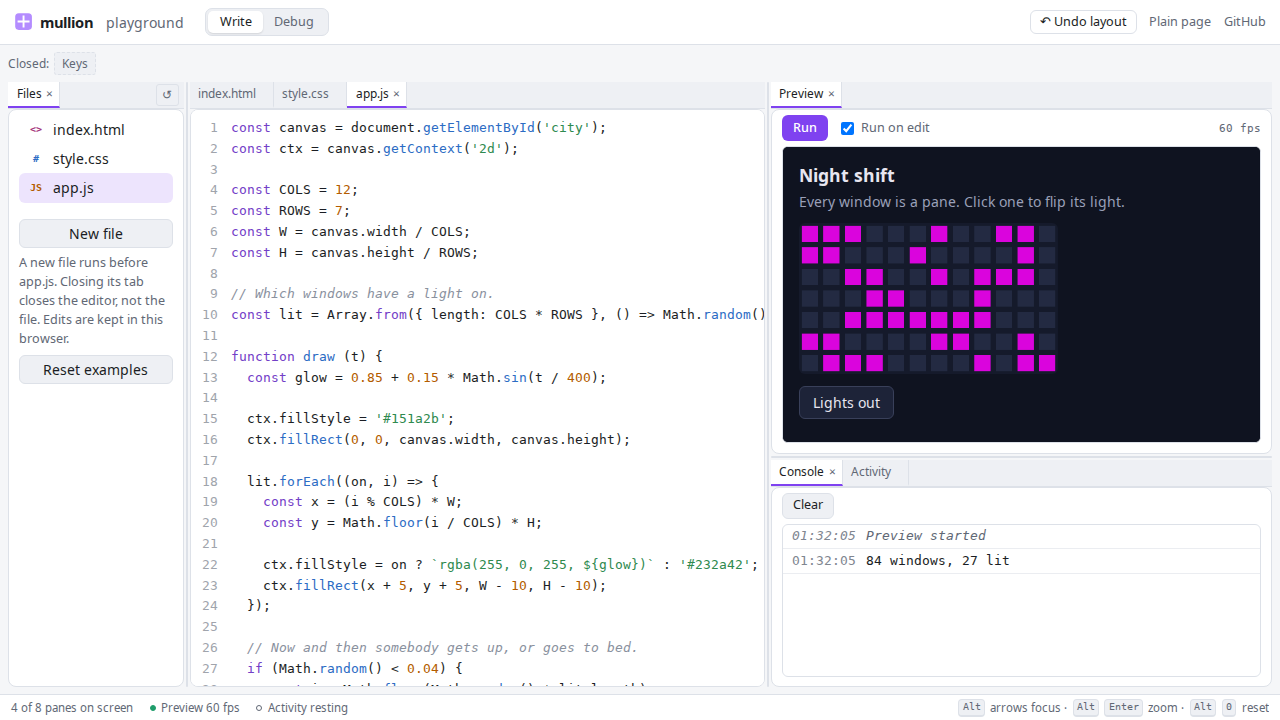
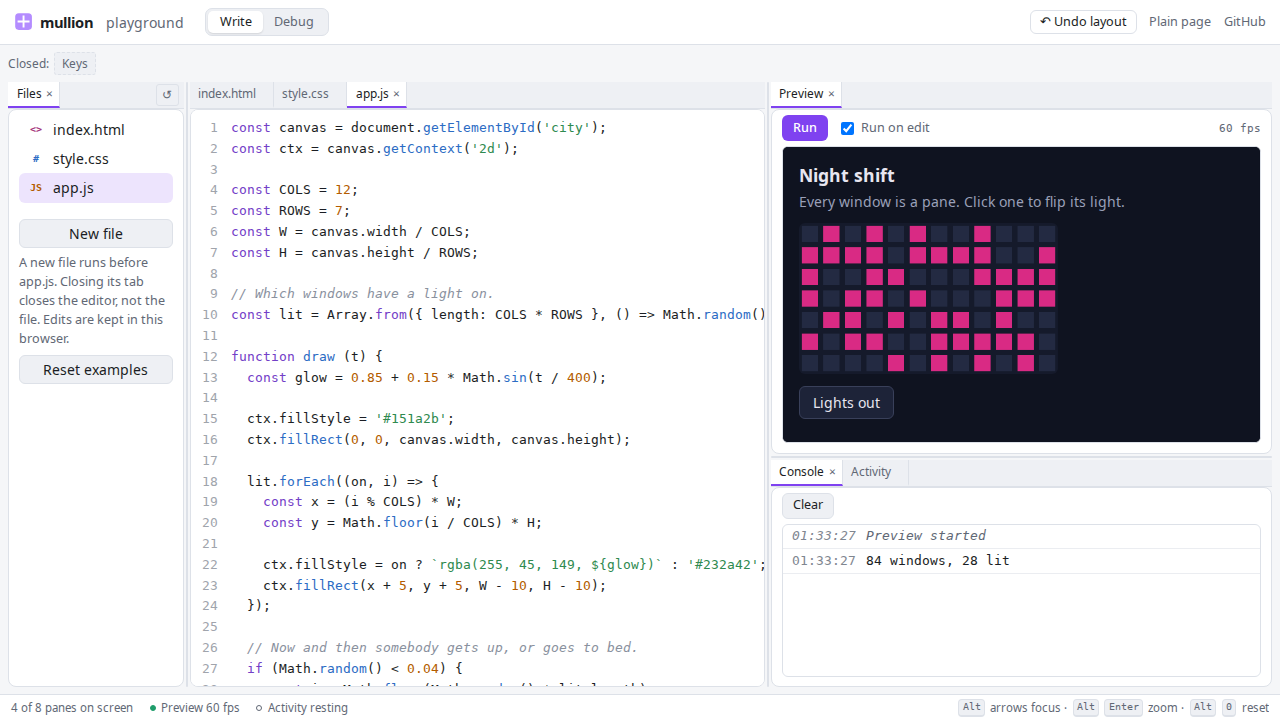
The lights #ff2d95

Changed region(s): [[0.625, 0.3056, 0.8438, 0.5194], [0.4062, 0.7639, 0.5938, 0.7944], [0.6562, 0.7333, 0.6875, 0.7944]]

diff --git a/demo/index.html b/demo/index.html
@@ -139,7 +139,7 @@ function draw (t) {
     const x = (i % COLS) * W;
     const y = Math.floor(i / COLS) * H;
 
-    ctx.fillStyle = on ? `rgba(255, 0, 255, ${glow})` : '#232a42';
+    ctx.fillStyle = on ? `rgba(255, 45, 149, ${glow})` : '#232a42';
     ctx.fillRect(x + 5, y + 5, W - 10, H - 10);
   });
 
